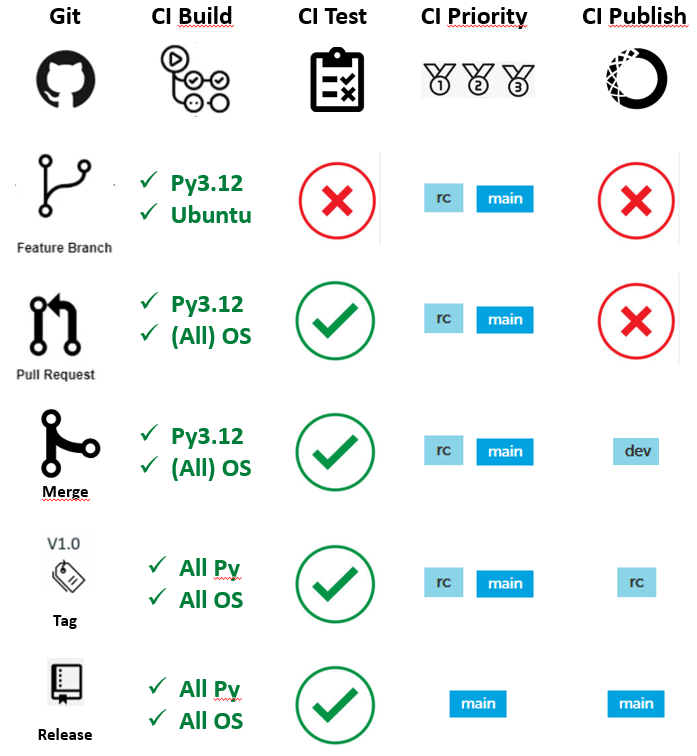
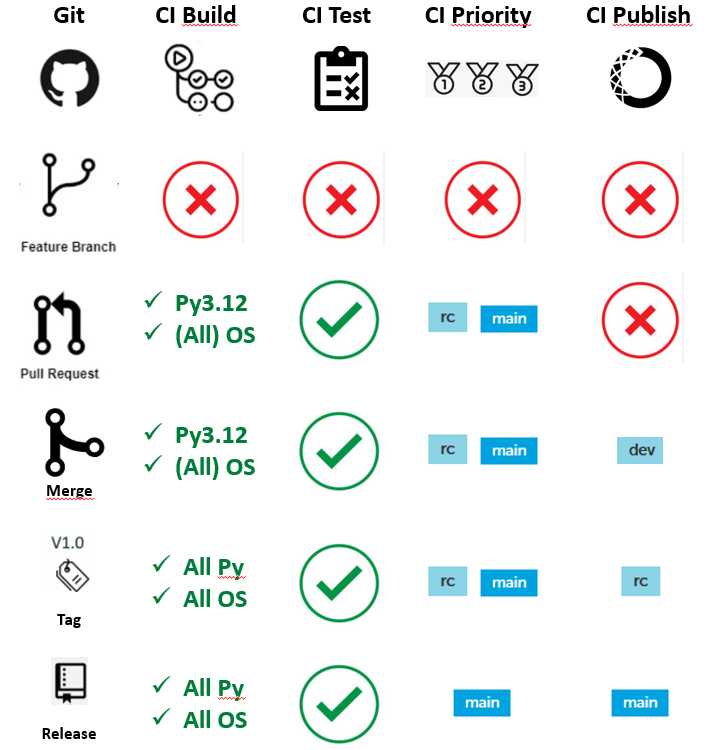
Change CI rules : no CI before PR (not so usefull and avoids jobs duplication in PR)

diff --git a/doc/workflows/openalea_ci/README.md b/doc/workflows/openalea_ci/README.md
@@ -19,14 +19,18 @@ name: OpenAlea CI
 on:
   push:
     branches:
-      - '**'
+      - main
+      - master
     tags:
       - 'v*'
   pull_request:
-    branches:
-      - '**'
+    types:
+      - opened
+      - synchronize
+      - reopened
   release:
-    types: [published]
+    types:
+      - published
 
 jobs:
   build:
